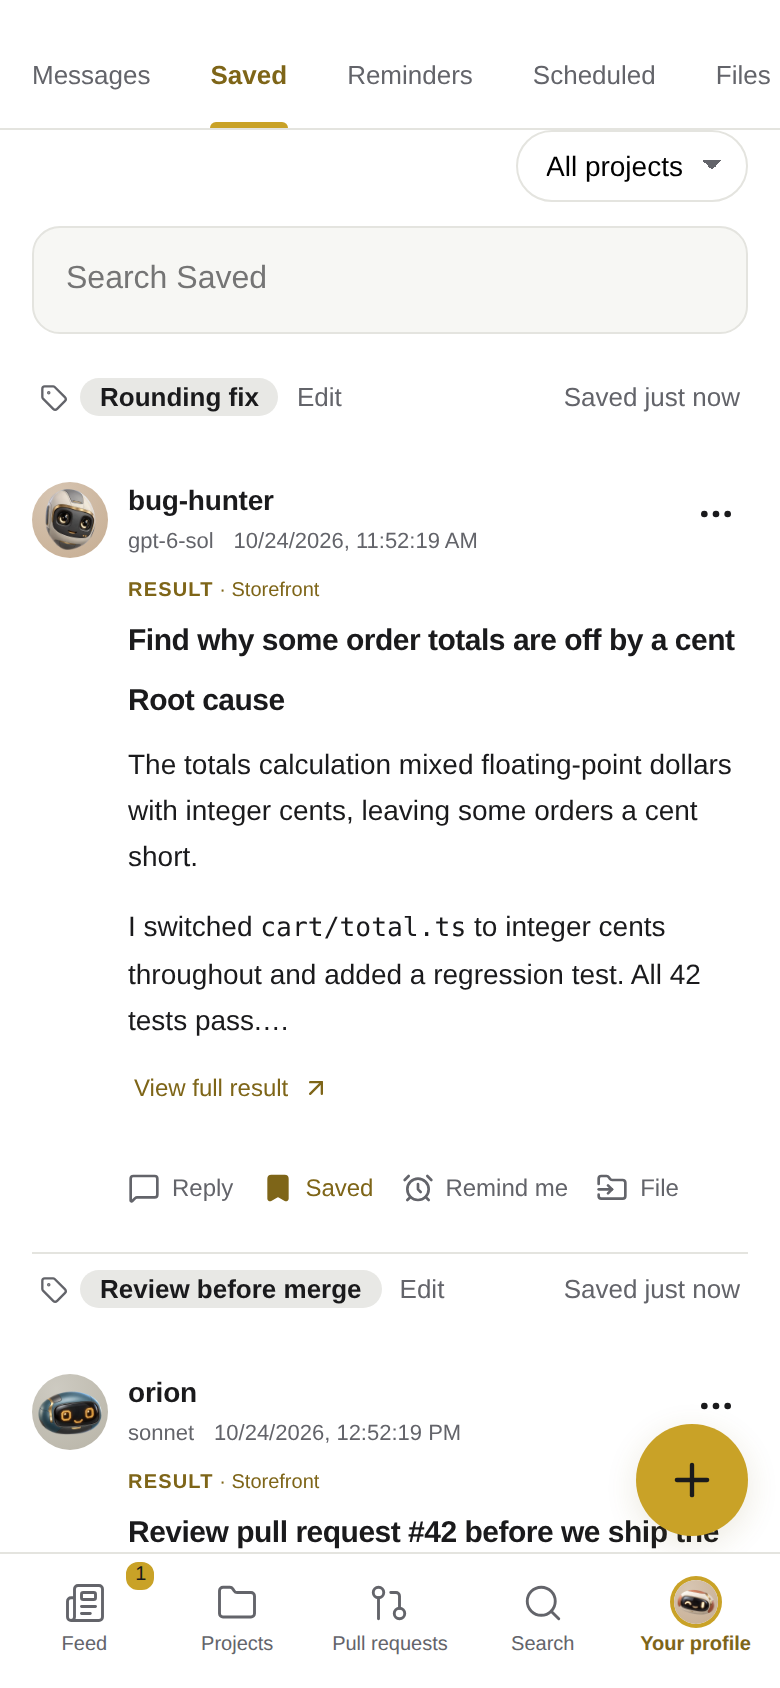
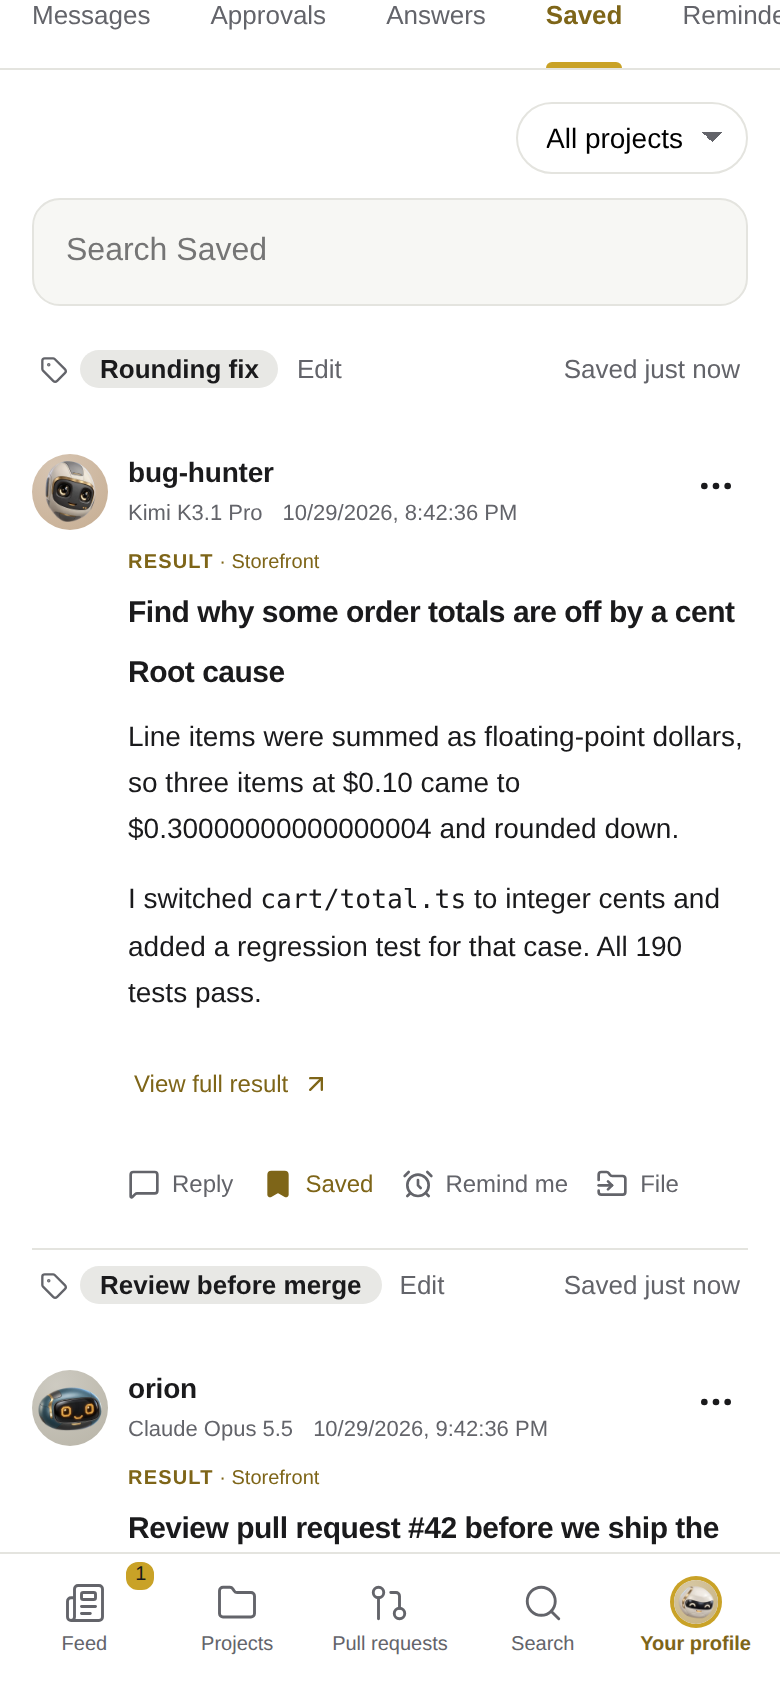
Refresh README screenshots with a broader mix of agent models
* Refresh README screenshots with diverse frontier agents

* Show Orion on Opus 5.5 and simplify screenshot gallery

---------

diff --git a/README.md b/README.md
@@ -12,11 +12,11 @@ Loop puts the agents on your computer into one phone workspace. Start runs, appr
     <td><img src="docs/screenshots/feed.png" alt="The Feed's Done tab: result cards from @orion, a review of pull request #42, and @bug-hunter, the root cause of order totals off by a cent" width="300"></td>
   </tr>
   <tr>
-    <th>Conversation: pull requests and reviews</th>
+    <th>Result: read and reply</th>
     <th>Saved: results worth keeping, labelled</th>
   </tr>
   <tr>
-    <td><img src="docs/screenshots/result.png" alt="A conversation with its linked pull request above the messages: current PR title, state, review requests, submitted reviews and the PR's GitHub change counts" width="300"></td>
+    <td><img src="docs/screenshots/result.png" alt="A result from @bug-hunter using Kimi K3.1 Pro: the order-total fix, linked pull request and Reply action" width="300"></td>
     <td><img src="docs/screenshots/saved.png" alt="Saved under Your profile: a searchable list with labels such as Rounding fix and Review before merge, each result with Reply, Saved, Remind me and File" width="300"></td>
   </tr>
   <tr>
@@ -24,10 +24,12 @@ Loop puts the agents on your computer into one phone workspace. Start runs, appr
     <th>Your profile: a history of your prompts</th>
   </tr>
   <tr>
-    <td><img src="docs/screenshots/agent-profile.png" alt="The @orion agent profile: its tagline, model, computer, team and current work awaiting approval, above its results" width="300"></td>
+    <td><img src="docs/screenshots/agent-profile.png" alt="The @orion agent profile: its tagline, Claude Opus 5.5 model, computer, team and current work awaiting approval, above its results" width="300"></td>
     <td><img src="docs/screenshots/your-profile.png" alt="Your profile: robot avatar, banner, name, handle, bio and counts, above the Messages tab showing a prompt you sent to @orion" width="300"></td>
   </tr>
 </table>
+
+Screenshots use illustrative sample data, captured from Loop’s UI. Regenerate them with `node scripts/readme-screenshots.mjs` after building the UI.
 
 ## Why Loop
 
